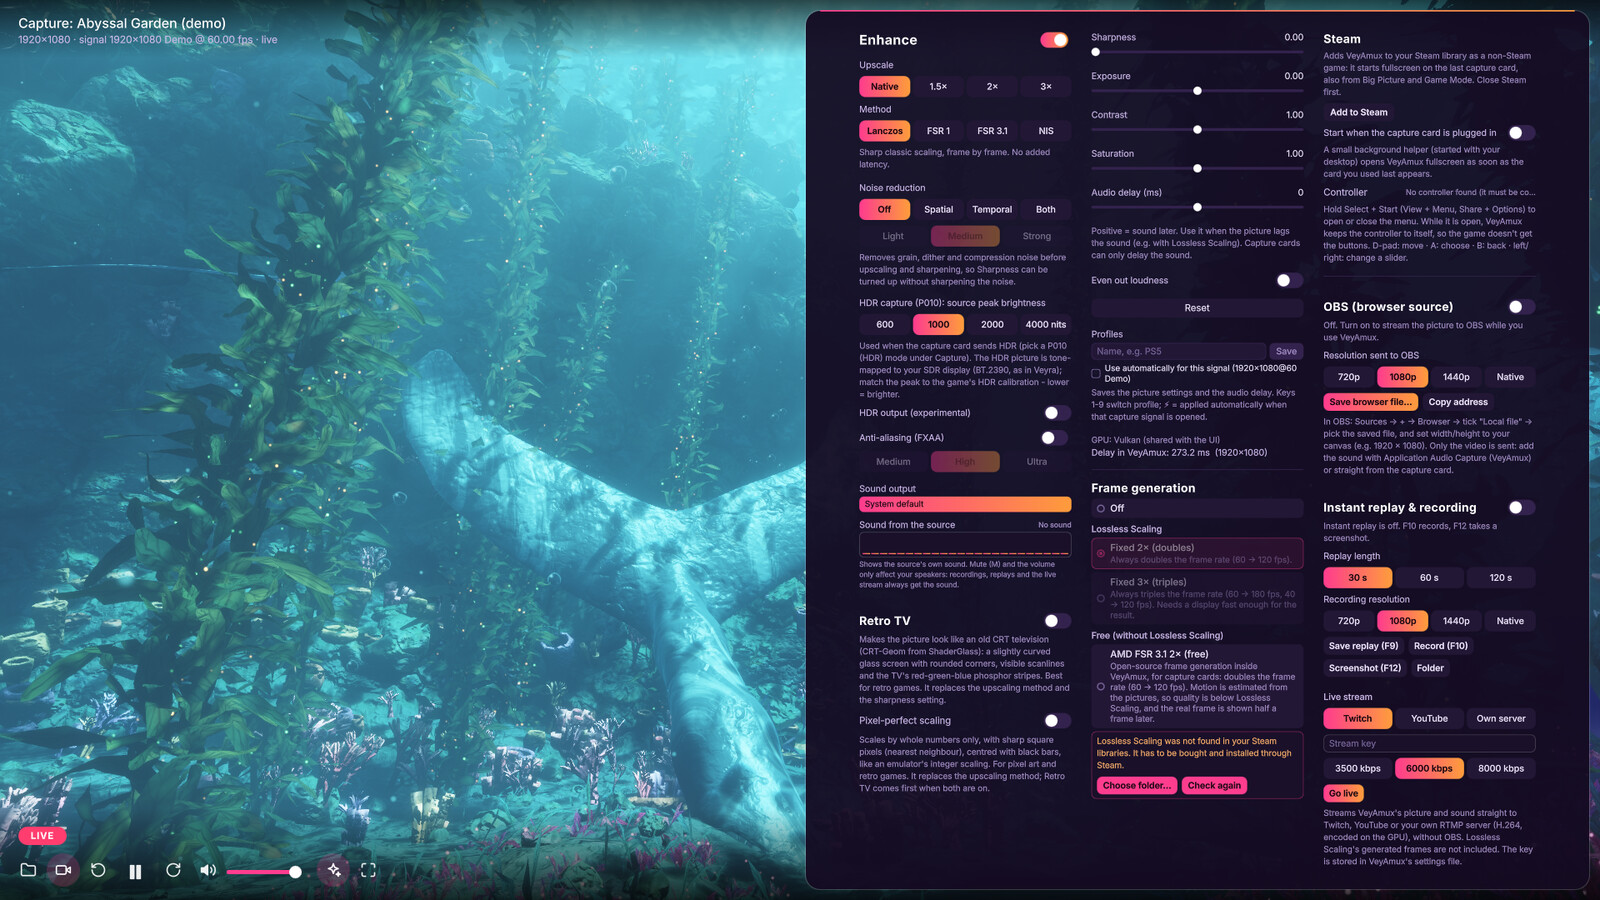
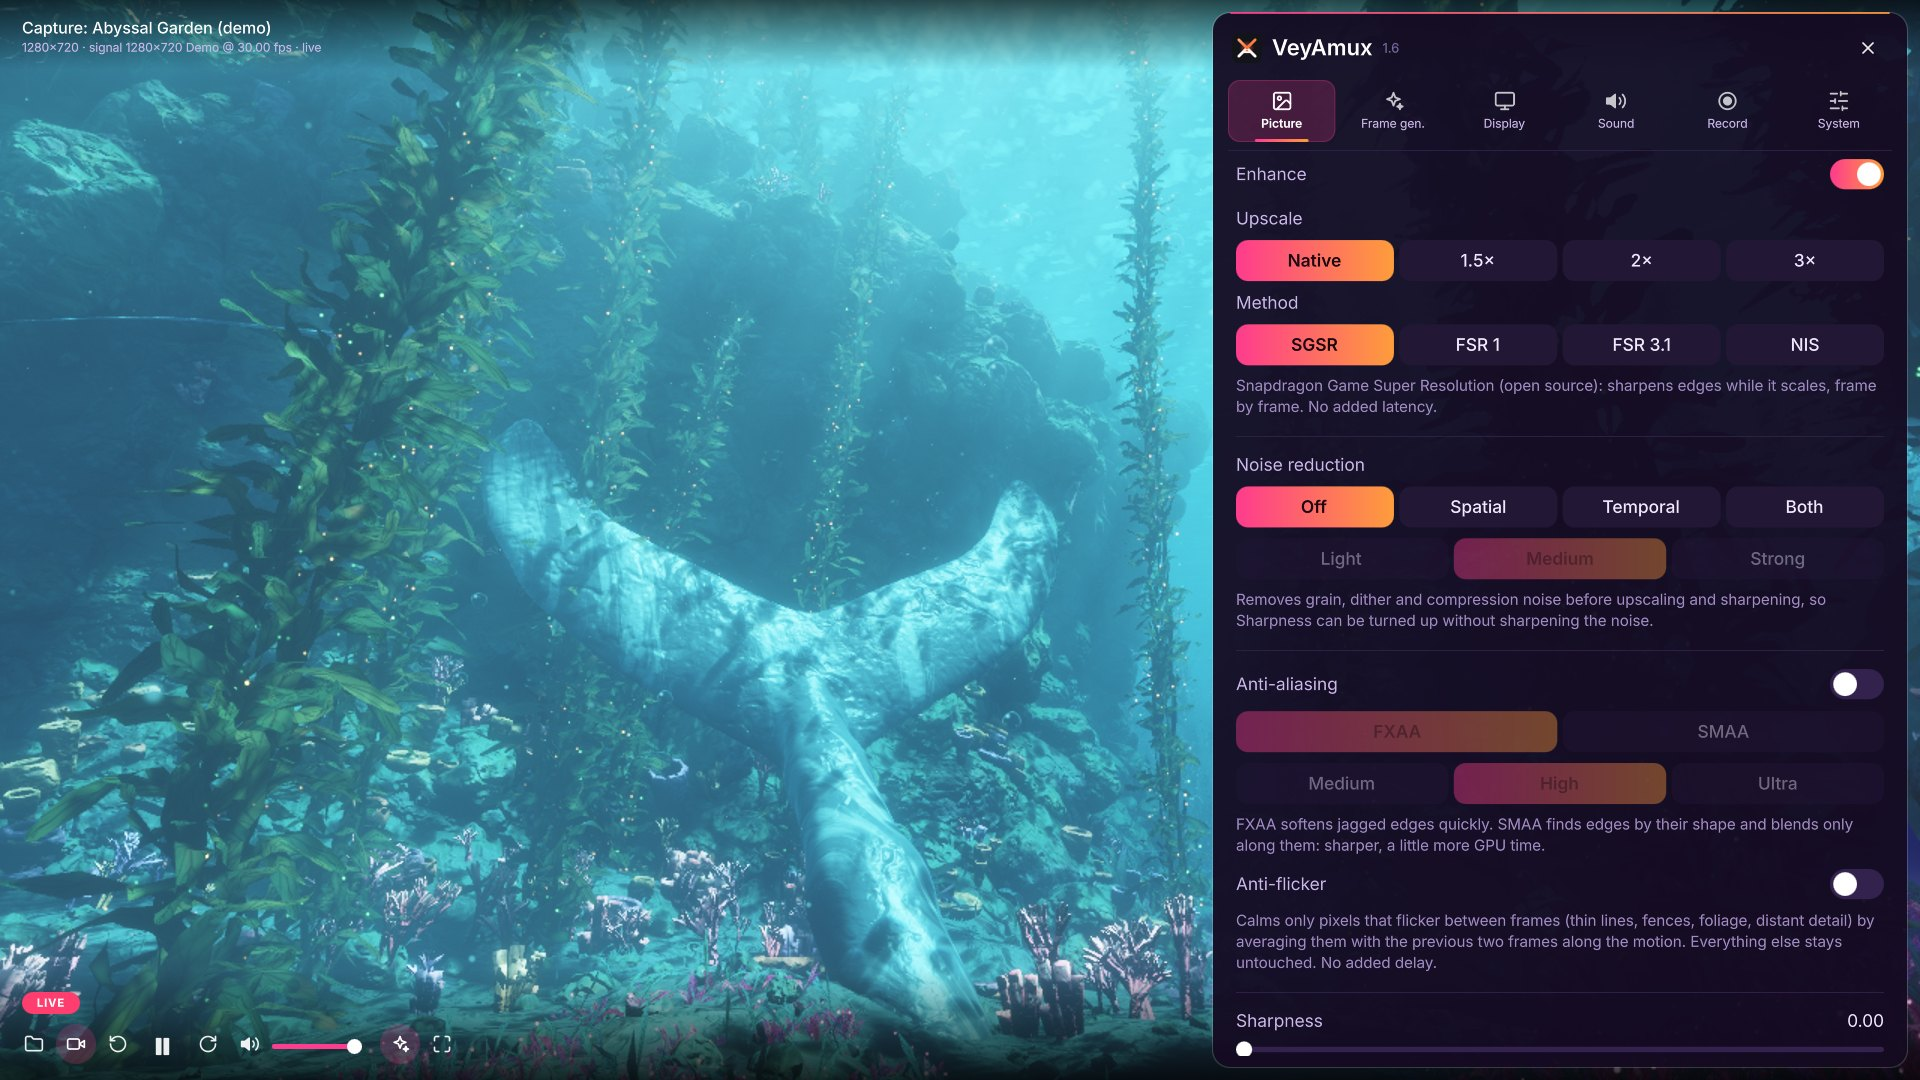
VeyAmux-V.1.6
New screenshots (start screen, menu tabs, handheld menu); the compact menu scales up to 1.35x.

Claude-Session: https://claude.ai/code/session_01B4TdVpLCa5512iQxziCMJs

diff --git a/qml/Menu.qml b/qml/Menu.qml
@@ -32,7 +32,7 @@ Rectangle {
     readonly property var scales: [1.0, 1.5, 2.0, 3.0]
 
     readonly property real designW: 600
-    readonly property real contentScale: compact ? Math.max(0.9, (width - 40) / designW)
+    readonly property real contentScale: compact ? Math.max(0.9, Math.min(1.35, (width - 40) / designW))
                                                  : Math.max(1.0, Math.min(1.8, (parent ? parent.height : 1080) / 1000))
     width: compact ? (parent ? parent.width : 800) : Math.min((parent ? parent.width : 1200) - 24, designW * contentScale + 48)
     height: compact ? (parent ? parent.height : 600) : (parent ? parent.height - 24 : 600)

diff --git a/src/main.cpp b/src/main.cpp
@@ -106,7 +106,7 @@ int main(int argc, char** argv) {
 
     QCoreApplication::setOrganizationName("VeyAmux");
     QCoreApplication::setApplicationName("VeyAmux");
-    QCoreApplication::setApplicationVersion("1.5");
+    QCoreApplication::setApplicationVersion("1.6");
     // The program was called Veyra before: carry the old settings over once (the old folder is left untouched).
     {
         const QString base = QStandardPaths::writableLocation(QStandardPaths::GenericConfigLocation);

diff --git a/README.md b/README.md
@@ -20,33 +20,31 @@
 </p>
 
 <p align="center">
-  <img src="docs/images/start.png" width="560" alt="VeyAmux start screen with the Open file, Capture and PlayStation buttons, the demo buttons (720p and 1080p, 30 and 60 fps), the four themes and the language choice">
+  <img src="docs/images/start.png" width="720" alt="VeyAmux's start screen: What do you want to play? with three cards (Capture card, PlayStation, Video file), the demo buttons (720p and 1080p, 30 and 60 fps), the four themes and the language choice">
 </p>
 
 ---
 
-## New in 1.5
+## New in 1.6
 
-- **Smoother Lossless Scaling:**
-  - **Even out frame pacing** (optional): many games locked to 30 fps show their pictures 17/50 ms apart instead of
-    33/33, and frame generation keeps that judder. VeyAmux first moves each picture to an even rhythm. This costs one
-    refresh of delay, about 17 ms at 60 Hz. Based on PushFPS via Veyra-NRVideo 2.2.0.
-  - **VRR warning:** if Adaptive Sync is on in KDE, VeyAmux warns you, because lsfg-vk 2 needs a fixed refresh rate to
-    space its frames evenly.
-- **Sharp in any window size:** the finished picture is resampled to exactly the pixels it covers in the window, and
-  then drawn 1:1. Before, it was stretched bilinearly. It is sharper when enlarged and has no crawling lines when
-  shrunk.
-- **Lock the HUD** (AMD FSR frame generation, optional): still text, maps and gauges no longer warp in the generated
-  frames.
+- **A new start screen and menu:** the sources as three large cards, and a menu with six tabs (Picture, Frame
+  generation, Display, Sound, Record, System). It grows with the screen, so it reads well from the couch, and LB / RB
+  switch tabs on a controller.
+- **Updates from inside VeyAmux:** it looks for a new version on GitHub by itself (at most twice a day). One click
+  downloads it, checks it against the release's checksum and puts it in place; Gear Lever is no longer needed.
+- **Smoother frame generation:** repeated frames are now found by comparing the whole picture, so a small movement
+  seen from a still camera is no longer thrown away as a repeat. VeyAmux also warns when frame generation asks for
+  more frames than the screen can show, and when the capture card sends compressed MJPEG while it has an
+  uncompressed mode.
+- **Picture:** SMAA anti-aliasing, and texture, clarity and dehaze.
+- **Comparison clips:** the original picture next to VeyAmux's (split, side by side, vertical 9:16 or a sweeping
+  reveal), and clip markers (**F6**) while recording.
+- **Check my setup:** finds what costs sharpness, smoothness or sound, each with a button that fixes it, and a
+  performance report to copy into bug reports.
 
-New in 1.4: SGSR upscaling instead of Lanczos, Abyssal Garden in 720p, VA-API for PlayStation Remote Play, and *Off*
-really turns Lossless Scaling off. New in 1.3: FSR 3.1.6 TAA at native resolution, anti-flicker, *Add to Steam* with
-library artwork and the automatic lsfg-vk 2 install. [All release notes](https://github.com/8BiTw0LF/VeyAmux/releases)
-
-<p align="center">
-  <img src="docs/images/sgsr.png" width="900" alt="A menu screenshot at full size, and the same picture at half size scaled back up 2x with Lanczos (1.3) and with SGSR (1.4)">
-  <br><sub>Half the resolution, scaled back up 2×: Lanczos (1.3) and SGSR (1.4) next to the full-size original.</sub>
-</p>
+Several of these come from [PushFPS](https://github.com/DosukaSOL/PushFPS) 4.1 (GPL-3.0). New in 1.5: frame pacing
+repair, sharp fit-to-window scaling, HUD lock and the VRR warning. New in 1.4: SGSR upscaling and Abyssal Garden in
+720p. [All release notes](https://github.com/8BiTw0LF/VeyAmux/releases)
 
 <p align="center">
   <img src="docs/images/steam-artwork.jpg" width="640" alt="VeyAmux's Steam library artwork: the background with the logo over it, the portrait cover and the wide cover">
@@ -60,7 +58,7 @@ VeyAmux shows the picture from a **capture card** (a PlayStation, Xbox, Switch o
 screen** on your desktop, or from a **video file**, and makes it look better on your graphics card. It can:
 
 - **upscale and sharpen** the picture with AMD FSR 1, NVIDIA Image Scaling (NIS), AMD FSR 3.1.6 or Snapdragon Game Super Resolution (SGSR);
-- **remove noise**, grain and compression blocks, **calm flickering** detail, and smooth edges with FXAA or FSR 3.1.6 TAA;
+- **remove noise**, grain and compression blocks, **calm flickering** detail, and smooth edges with FXAA, SMAA or FSR 3.1.6 TAA;
 - **double or triple the frame rate** with Lossless Scaling, or double it for free with AMD FSR 3.1.6 frame generation (switch between them in the menu);
 - **handle HDR**: tone-map HDR games for an SDR screen, or send real HDR to an HDR screen;
 - **look like an old TV** with *Retro TV* (curved CRT glass, scanlines and phosphor stripes), or show retro games with
@@ -77,13 +75,13 @@ uploaded to the GPU once, and everything else happens there. VeyAmux needs well 
 Developed and tested on **Bazzite** (KDE Plasma) with an **AMD RX 9070 XT** and an **AVerMedia Live Gamer Ultra 2.1**.
 
 <p align="center">
-  <img src="docs/images/demo-menu.jpg" width="800" alt="The built-in demo, Abyssal Garden, with VeyAmux's menu open beside it">
-  <br><sub>The built-in demo with the menu (P) open beside it.</sub>
+  <img src="docs/images/demo-menu.jpg" width="800" alt="The built-in demo, Abyssal Garden, with VeyAmux's menu open on the Picture tab: upscaling, method, noise reduction, anti-aliasing and anti-flicker">
+  <br><sub>The built-in demo with the menu (P) open on the Picture tab.</sub>
 </p>
 
 <p align="center">
-  <img src="docs/images/menu.png" width="628" alt="Part of VeyAmux's menu: upscaling with NIS, noise reduction, HDR, anti-aliasing, sound output with a live spectrum, Retro TV, Steam, OBS, instant replay and live streaming">
-  <br><sub>Part of the menu (P). On a desktop screen the whole menu sits beside the picture, with everything visible at once and no scrolling; on handhelds it fills the screen.</sub>
+  <img src="docs/images/menu-tabs.jpg" width="900" alt="Three tabs of VeyAmux's menu: Frame generation (Lossless Scaling and AMD FSR 3.1.6, even out frame pacing), Record (instant replay, recording, live stream, comparison clips) and System (Check my setup with two findings, updates, performance report)">
+  <br><sub>The Frame generation, Record and System tabs. The findings under <i>Check my setup</i> are from a test PC without a graphics card.</sub>
 </p>
 
 ## What do I need?
@@ -254,7 +252,7 @@ it is drawn 1:1 instead of being stretched bilinearly: sharper when enlarged, no
   corner closes it.
 
   <p align="center">
-    <img src="docs/images/handheld-menu.jpg" width="640" alt="VeyAmux's menu on a 1280×800 handheld screen: it fills the screen in two columns with large text and a close button in the corner">
+    <img src="docs/images/handheld-menu.jpg" width="640" alt="VeyAmux's menu on a 1280×800 handheld screen: it fills the screen with the six tabs at the top, large controls and a close button in the corner">
     <br><sub>The menu on a 1280×800 handheld screen (Steam Deck size).</sub>
   </p>
 - **Updates from inside the app**: VeyAmux looks for a new version on GitHub (at most twice a day, or when you ask).
@@ -294,7 +292,8 @@ chmod +x VeyAmux-x86_64.AppImage
 ./VeyAmux-x86_64.AppImage
 ```
 
-Or install it with **[Gear Lever](https://flathub.org/apps/it.mijorus.gearlever)**, which also keeps it up to date.
+VeyAmux updates itself: when a new version is out, it offers it on the start screen and under *System*. You can
+also install it with **[Gear Lever](https://flathub.org/apps/it.mijorus.gearlever)**.
 
 The AppImage contains everything it needs (Qt, FFmpeg, shaders), and nothing is installed on the system. If FUSE is
 missing, use `APPIMAGE_EXTRACT_AND_RUN=1 ./VeyAmux-x86_64.AppImage`.
@@ -364,10 +363,10 @@ display. Turn VRR / adaptive sync off for VeyAmux.
 
 **Space** play/pause · **←/→** ±5 s (Shift ±30 s) · **↑/↓** volume · **F** fullscreen · **E** enhancement on/off ·
 **P** menu · **M** mute (your speakers only) · **O** open file · **C** capture · **F3** frame-time overlay ·
-**1–9** profiles · **F9** save replay · **F10** record · **F12** screenshot
+**1–9** profiles · **F6** clip marker · **F9** save replay · **F10** record · **F12** screenshot
 
 **Controller:** **Select + Start** (or hold **Guide**) menu · **D-pad / stick** move · **A** choose · **B** close ·
-**LB / RB** columns
+**LB / RB** menu tabs
 
 **Demo:** **W A S D** swim · **Q / E** down / up · **Shift** faster · drag with the mouse to look · **1–6** viewpoints ·
 controller sticks, triggers and **Y**

diff --git a/RELEASE_NOTES.md b/RELEASE_NOTES.md
@@ -1,28 +1,47 @@
-## VeyAmux-V.1.5
+## VeyAmux-V.1.6
 
-### Smoother Lossless Scaling
-- **Even out frame pacing** (optional, under Frame generation): many games locked to 30 fps show their pictures unevenly,
-  for example 17 ms and 50 ms apart instead of 33 and 33. Frame generation then keeps that judder. VeyAmux now moves each
-  picture to an even rhythm before frame generation. This costs one refresh of delay, about 17 ms at 60 Hz. The
-  frame-time overlay (F3) shows how many pictures were moved. Based on PushFPS's frame pacing repair, by way of
-  Veyra-NRVideo 2.2.0 (GPL-3.0-or-later).
-- **VRR warning:** lsfg-vk 2 needs a fixed refresh rate to space its frames evenly. If Adaptive Sync (VRR) is on in KDE,
-  VeyAmux now shows a warning in the menu and a notice when you choose Lossless Scaling. Set *Adaptive sync* to
-  *Never* under *Display & Monitor*.
+### New start screen and menu
+- The start screen shows the sources as three large cards (capture card, PlayStation, video file), a button to
+  continue with the last capture card, the demo, and the themes and languages.
+- The menu has six tabs: Picture, Frame generation, Display, Sound, Record and System. It grows with the screen, so it
+  reads well on a TV, and **LB / RB** switch tabs on a controller. On handhelds it still fills the screen.
 
-### Sharp in any window size
-The finished picture is now resampled to exactly the pixels it covers in the window, and then drawn 1:1. Before, Qt
-stretched it with a simple bilinear filter. It is sharper when the picture is enlarged, and thin lines and text no
-longer crawl when it is shrunk (for example 4K in a 1440p window). In fullscreen at the source's own size, nothing
-changes. To compare with the old way, start VeyAmux with `VEYAMUX_NO_FIT=1`.
+### Updates from inside VeyAmux
+VeyAmux looks for a new version on GitHub by itself, at most twice a day (it can be turned off under *System*). One
+click downloads it, checks it against the release's checksum and puts it in place of the AppImage under the same
+name, so a Steam shortcut or Gear Lever entry keeps working. The new version starts the next time, or right away with
+*Restart now*. Gear Lever is no longer needed.
 
-### Lock the HUD (AMD FSR frame generation)
-A new option keeps still text, maps and gauges from warping in the generated frames. It takes still, sharp-edged pixels
-from the real frame. Based on PushFPS, by way of Veyra-NRVideo 2.2.0.
+### Smoother frame generation
+- **Repeated frames are found by comparing the whole picture.** Before, only a sparse grid was compared, and a small
+  movement seen from a still camera (an idle animation, a distant figure) could be taken for a repeat and thrown away,
+  which frame generation shows as a judder. In a 4K test with card noise and only a 12-pixel element moving, the old
+  check was right on 68 of 119 frames, the new one on 119 of 119. It costs about 1 ms per frame.
+- **Screen check:** VeyAmux warns when frame generation asks for more frames than the screen can show (for example
+  30 fps × 3 on a 60 Hz screen) and says what to change.
+- **Capture format:** if you pick compressed MJPEG while the card has an uncompressed mode, the capture window says so
+  and offers it. If no capture card is listed, it explains why (no device, or no access to it).
+
+### Picture
+- **SMAA** anti-aliasing (medium, high, ultra) next to FXAA: sharper edges with a little more GPU time.
+- **Texture, clarity and dehaze** (from Veyra-NRVideo).
+
+### Recording
+- **Comparison clips:** the original capture next to VeyAmux's picture, as split, side by side, vertical 9:16 (for
+  TikTok, Shorts and Reels) or a sweeping reveal, with labels. Lossless Scaling's frames are made after VeyAmux, so
+  they are not in recordings.
+- **Clip markers:** **F6** while recording notes the moment in `<recording>-markers.txt`.
+
+### Help
+- **Check my setup** (System tab) finds what costs sharpness, smoothness or sound, each with a button that fixes it.
+- **Performance report:** copies the graphics card, settings and measurements for a bug report, with nothing personal.
+
+Several of these features come from [PushFPS](https://github.com/DosukaSOL/PushFPS) 4.1 (GPL-3.0-or-later). SMAA is
+MIT-licensed (iryoku/smaa).
 
 ### Download
-Download `VeyAmux-x86_64.AppImage` below, make it executable (`chmod +x`) and run it. It can update itself through the
-`.zsync` file (for example with Gear Lever).
+Download `VeyAmux-x86_64.AppImage` below, make it executable (`chmod +x`) and run it. From now on, VeyAmux can update
+itself.
 
 Lossless Scaling frame generation still needs your own copy of Lossless Scaling (Steam) and lsfg-vk. VeyAmux does not
 include either of them.
